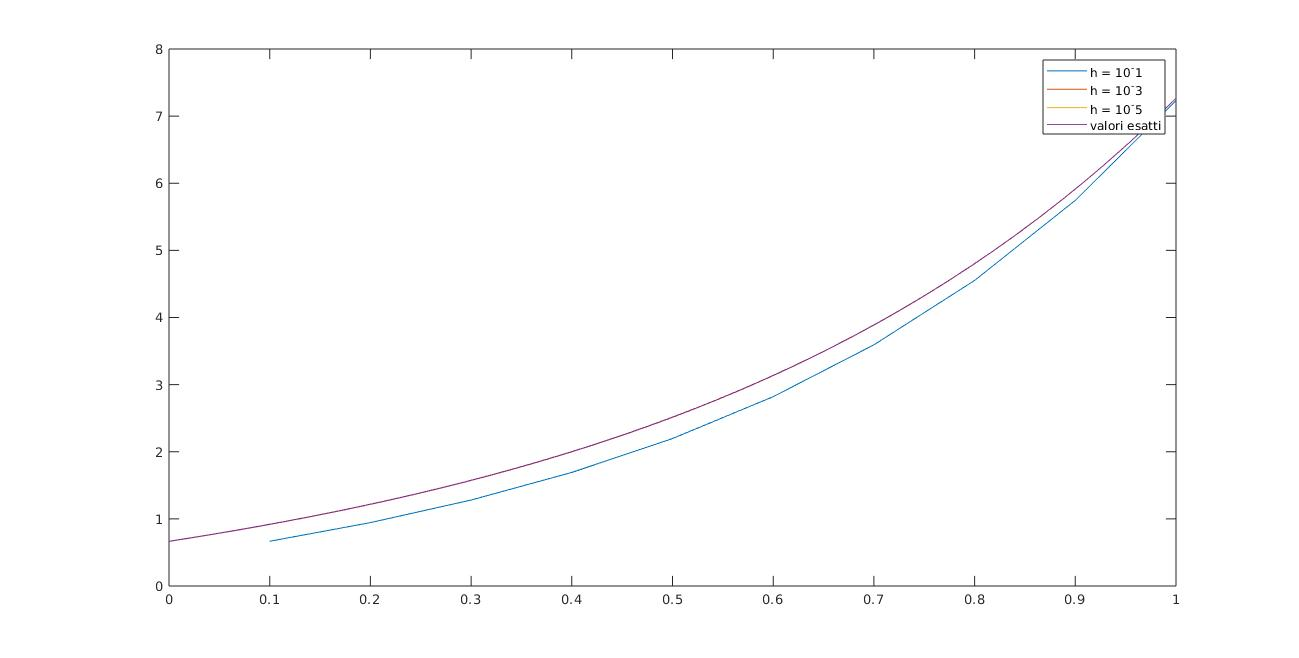
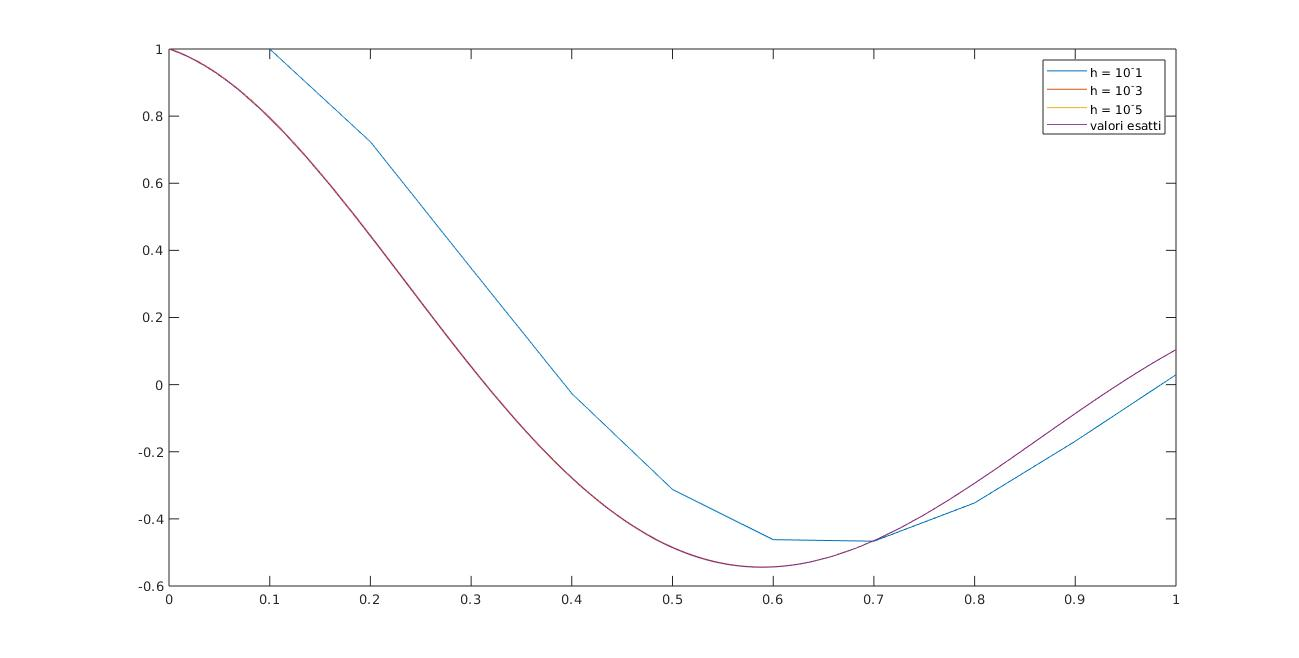
fixed eulero indietro and modified image of plot

diff --git a/es1_fun1_eulero_indietro.m b/es1_fun1_eulero_indietro.m
@@ -1,10 +1,10 @@
 clc
 e = exp(1);
 %-----------function-----------
-f = @(t, y) 2*y+(e^-t);
-f_y0 = 2/3;
+f = @(t, y) -y-5*(e^-t)*sin(5*t);
+f_y0 = 1;
 %------------------------------
-true_function = @(x) e^(2*x)-((e^-x)/3);
+true_function = @(x) (e^-x)*cos(5*x); 
 
 % intervallo
 a=0; b=1;
